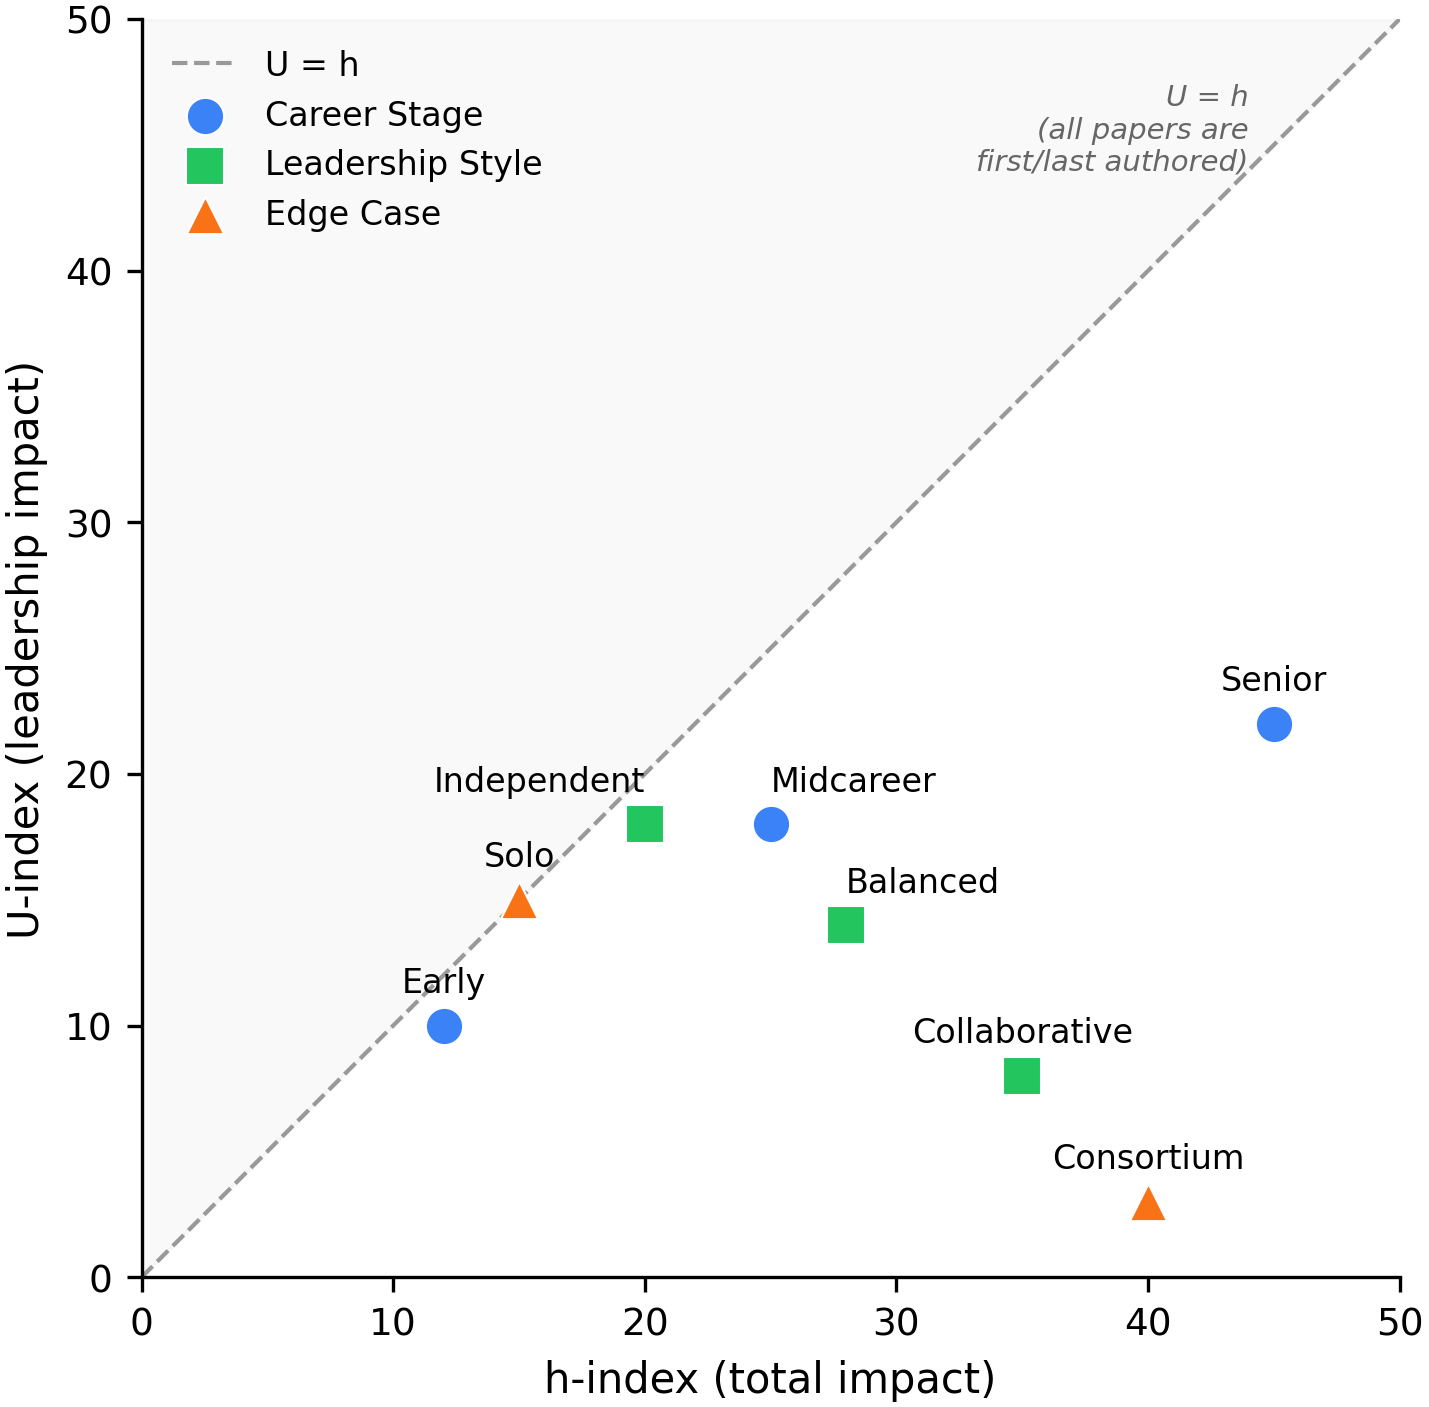
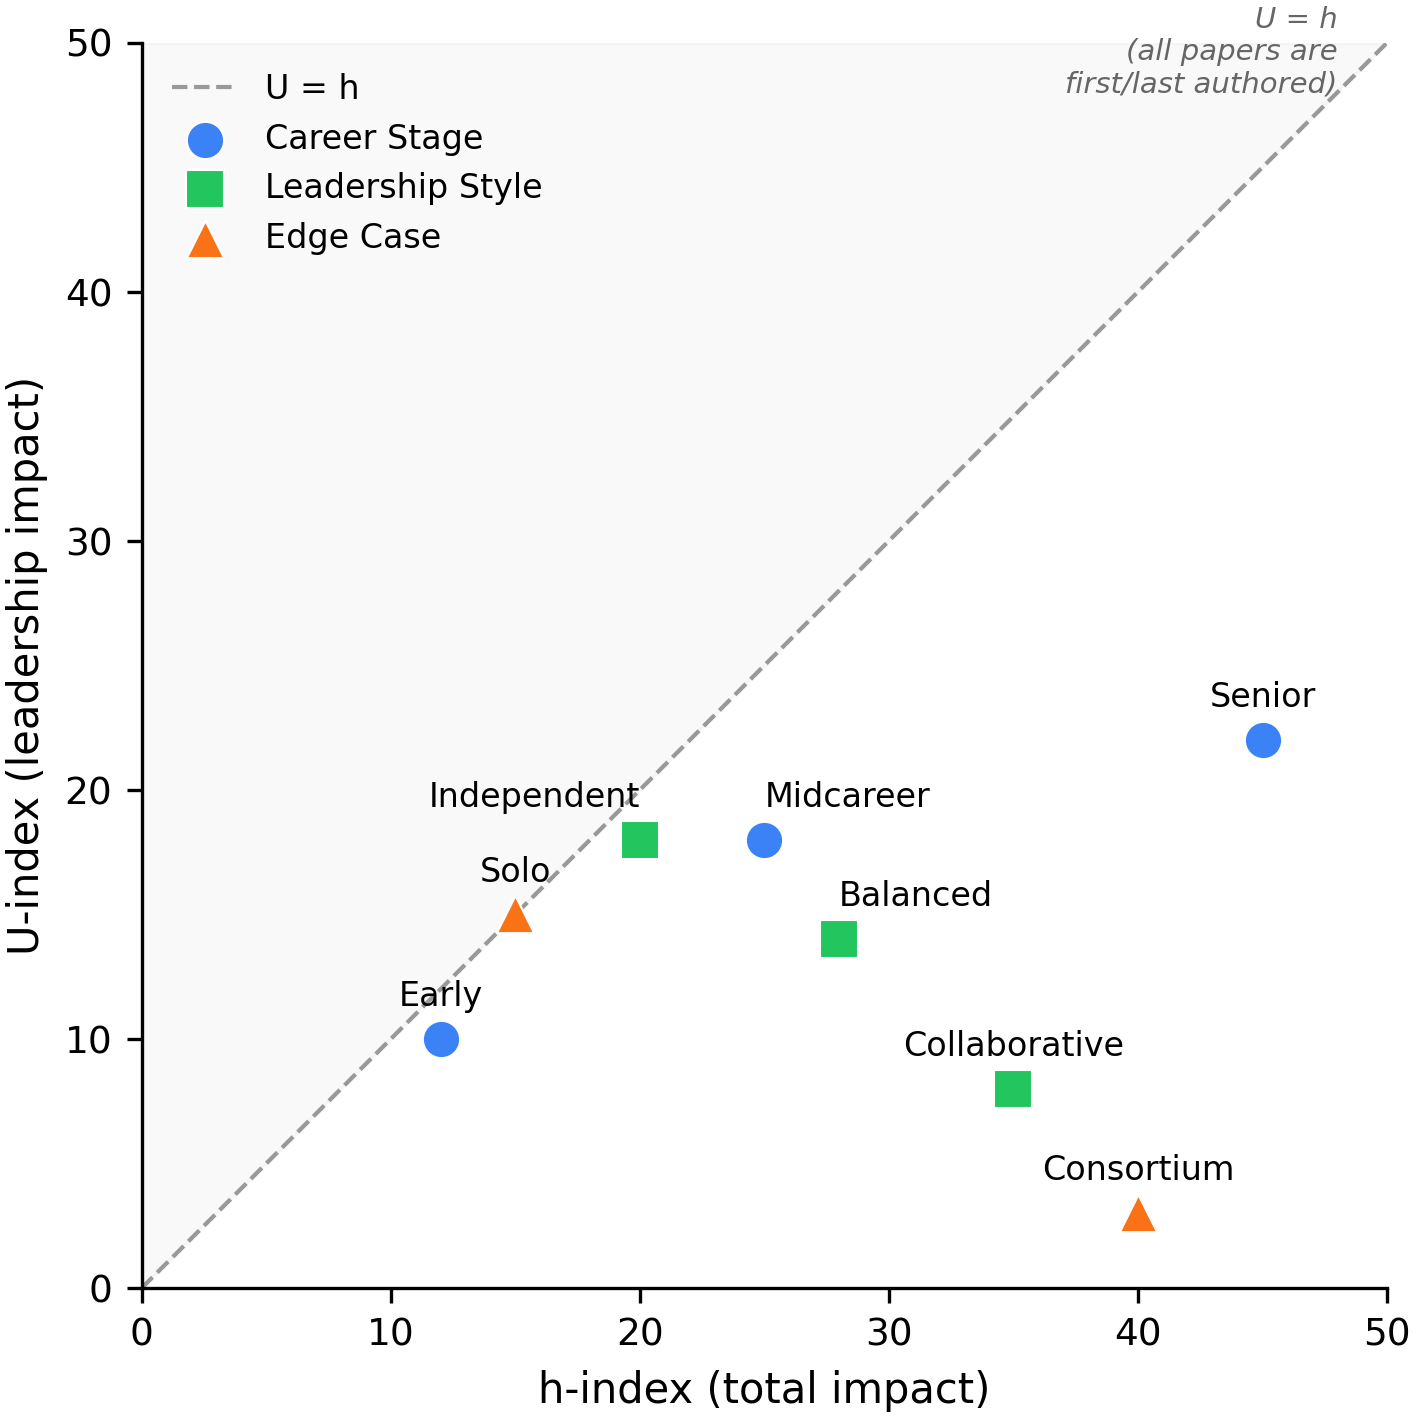
Move U=h annotation to top right corner in scatter plot

diff --git a/examples/u_index_visualizations.py b/examples/u_index_visualizations.py
@@ -575,7 +575,7 @@ def create_scatter_manuscript() -> plt.Figure:
 
     # Add annotation explaining the diagonal
     ax.annotate("U = h\n(all papers are\nfirst/last authored)",
-                xy=(max_val - 6, max_val - 6), fontsize=7, color="#666", ha="right",
+                xy=(max_val - 2, max_val - 2), fontsize=7, color="#666", ha="right",
                 style="italic")
 
     plt.tight_layout()
